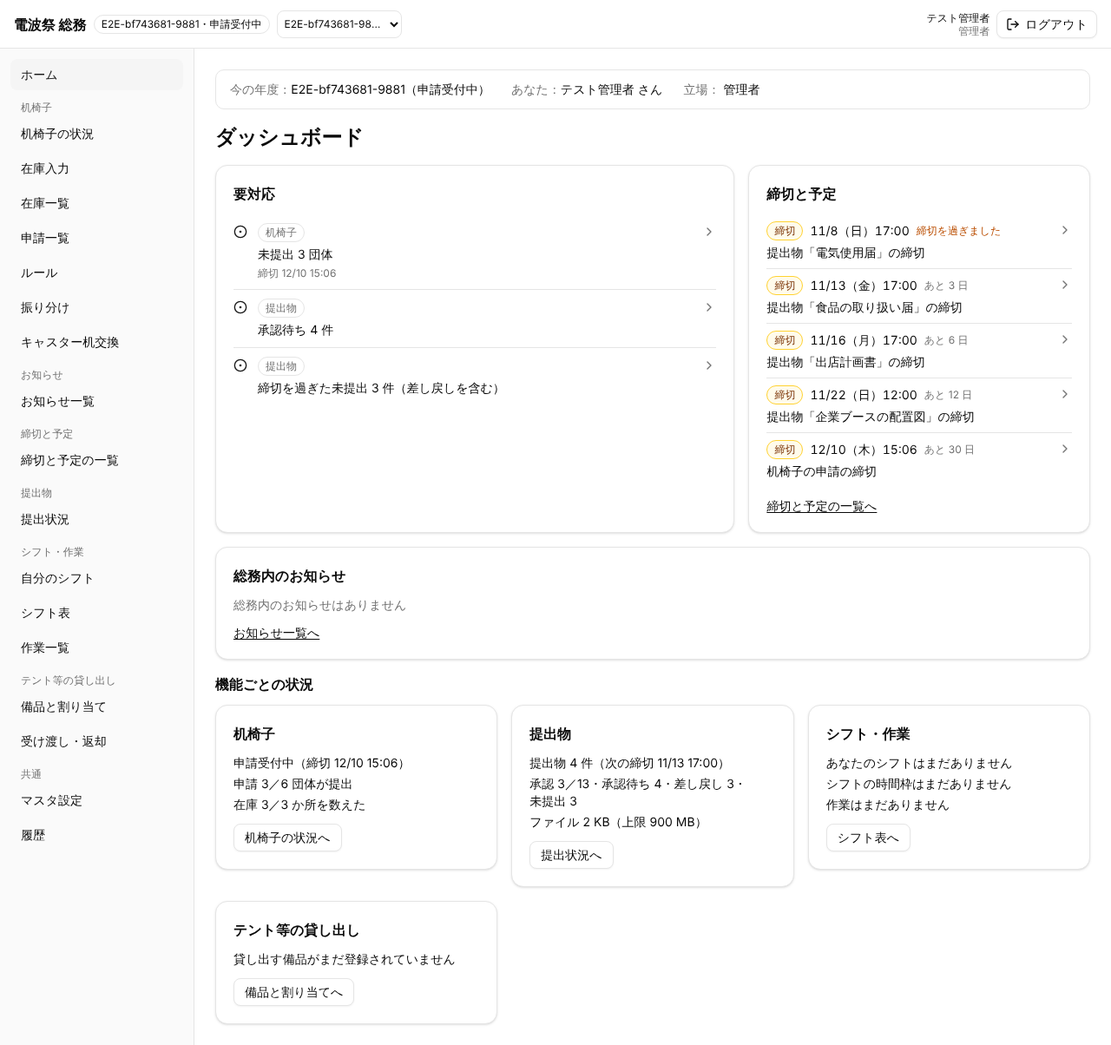
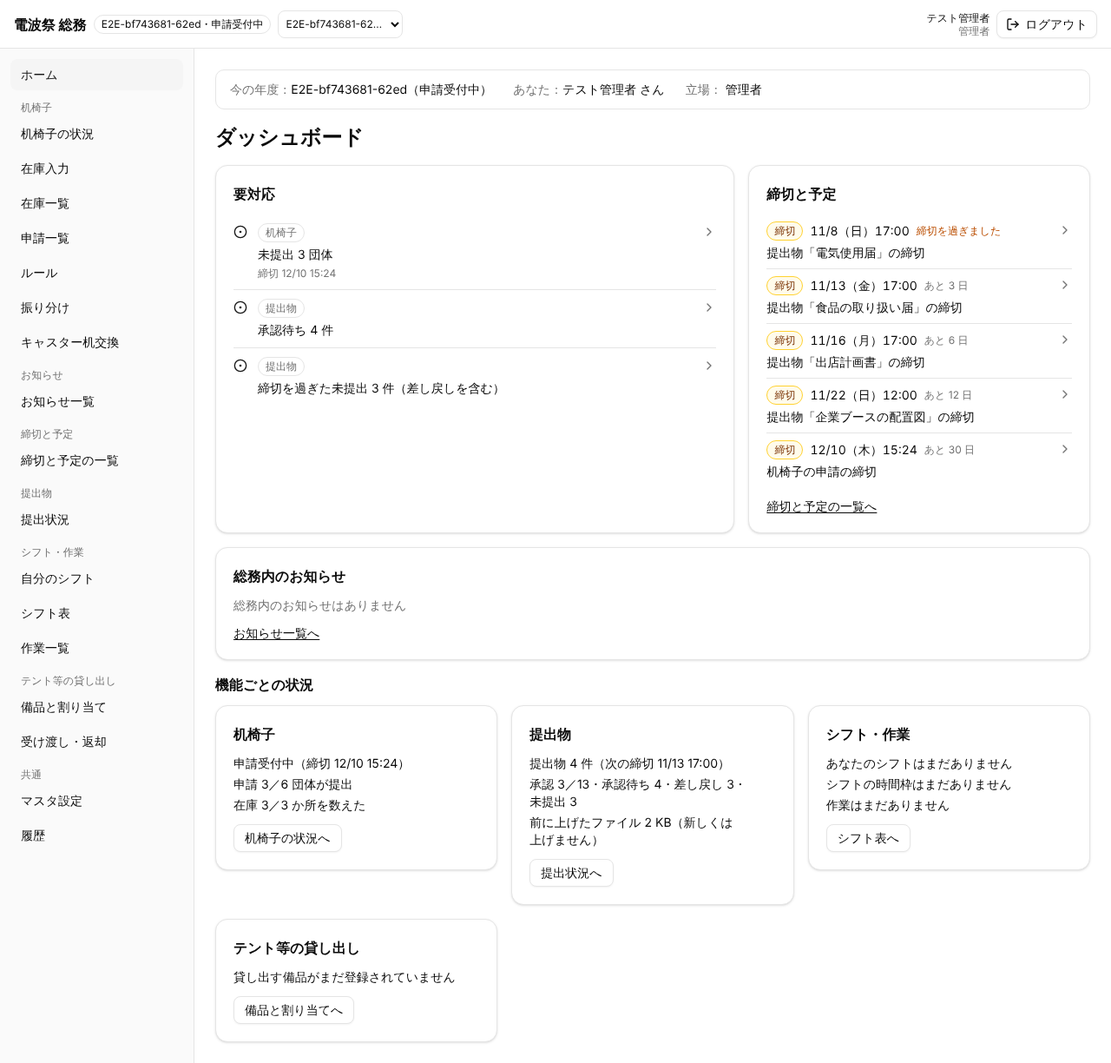
fix: T24 のレビューの指摘を直す（ダッシュボードの上限・conflict の文言・設定の添え書き・文書とテスト）
- ダッシュボードの提出物のカードに上限 900 MB を出さず「前に上げたファイル」とする
- conflict の文言を「提出・取り消し・ファイルを外すなど」にする
- シートの「提出物の設定」の添え書きを書ける年度だけにする
- 04・02 を実装にそろえ、033 で 0023 の既存の行の update を確かめる

Claude-Session: https://claude.ai/code/session_01WNbyY2riVdfm15kp8tp6es

diff --git a/apps/web/lib/errors.ts b/apps/web/lib/errors.ts
@@ -472,6 +472,7 @@ export const DOCUMENT_STATE_MESSAGES: Readonly<Record<string, string>> = {
   not_uploaded: '届いていないファイルがあります。外してから提出してください',
   too_many_files: 'ファイルは1つの提出物に 5 つまでです',
   too_many_orphans: '前に外したファイルを片付けられませんでした。通信を確かめてから、もう一度足してください',
+  // T24 から返らない（予約は先に uploads_disabled で止まる）。T24 の前の形の記録として残す
   storage_full: 'ファイルの置き場がいっぱいです（上限 900 MB）。総務に知らせてください（管理者が終了した年度のファイルを削除すると空きます）',
   not_closed: '年度が終了していないので、ファイルを削除できません',
   // T24（D-62）：reserve_document_file はいつもこれを返す（提出物はドライブ・フォームに出す）
@@ -493,8 +494,8 @@ export const DOCUMENT_INPUT_MESSAGES: Readonly<Record<string, string>> = {
   'document_ids:not_in_prev_year': '前年度にない提出物が選ばれています。読み直しました',
   'document_ids:deadline_out_of_range': 'ずらした締切が 2000年〜2200年の外になる提出物があります',
 };
-/** 提出・取り消し・承認・差し戻しの conflict（details は {document_id, group_id}。読んだ後にファイルを足す・外すなどで版が進んだ） */
-export const DOCUMENT_CONFLICT_MESSAGE = 'ほかの人がこの提出を先に変えました（ファイルを足す・外すなど）。読み直しました。確かめてから、もう一度押してください';
+/** 提出・取り消し・承認・差し戻しの conflict（details は {document_id, group_id}。読んだ後に提出して取り消す・ファイルを外すなどで版が進んだ） */
+export const DOCUMENT_CONFLICT_MESSAGE = 'ほかの人がこの提出を先に変えました（提出・取り消し・ファイルを外すなど）。読み直しました。確かめてから、もう一度押してください';
 /** not_found（discard_document_file 以外） */
 export const DOCUMENT_MISSING_MESSAGE = 'この提出物は見つかりません（削除されたか、この団体が対象から外れた可能性があります）。読み直しました';
 /** not_found（discard_document_file：待つ間に外された） */

diff --git a/apps/web/lib/modules/documents/portal.test.ts b/apps/web/lib/modules/documents/portal.test.ts
@@ -63,12 +63,12 @@ describe('T19 総務の要対応・締切と予定・カード', () => {
     for (const t of s.todos) expect(t).not.toHaveProperty('detail');
   });
 
-  it('管理者のカード：提出物の数と次の締切、承認／対象・承認待ち・差し戻し・未提出、ファイルの使った量（上限 900 MB）。リンクは「提出状況へ」', () => {
+  it('管理者のカード：提出物の数と次の締切、承認／対象・承認待ち・差し戻し・未提出、前に上げたファイルの使った量（T24 から上限は出さない）。リンクは「提出状況へ」', () => {
     const s = documentsPortal(soumuRaw(), ctxOf(member('admin'), 'soumu'));
     expect(s.card).toEqual({
       moduleId: 'documents',
       title: '提出物',
-      lines: ['提出物 4 件（次の締切 10/6 17:00）', '承認 3／8・承認待ち 2・差し戻し 1・未提出 2', 'ファイル 180 MB（上限 900 MB）'],
+      lines: ['提出物 4 件（次の締切 10/6 17:00）', '承認 3／8・承認待ち 2・差し戻し 1・未提出 2', '前に上げたファイル 180 MB（新しくは上げません）'],
       href: '/documents',
       linkLabel: '提出状況へ',
     });
@@ -104,7 +104,7 @@ describe('T19 総務の要対応・締切と予定・カード', () => {
     expect(documentsPortal(soumuRaw({ docs: [], statuses: [], usage: null }), ctxOf(member('head'), 'soumu')).card!.lines).toEqual(['提出物はまだありません']);
     expect(documentsPortal(soumuRaw({ docs: [], statuses: [] }), ctxOf(member('admin'), 'soumu')).card!.lines).toEqual([
       '提出物はまだありません',
-      'ファイル 180 MB（上限 900 MB）',
+      '前に上げたファイル 180 MB（新しくは上げません）',
     ]);
     const past = soumuRaw({ docs: [DOCS[0]!, DOCS[3]!], statuses: [], usage: null });
     expect(documentsPortal(past, ctxOf(member('staff'), 'soumu')).card!.lines).toEqual(['提出物 2 件（締切はすべて過ぎました）', '対象の団体がありません']);

diff --git a/apps/web/lib/data/documents.test.ts b/apps/web/lib/data/documents.test.ts
@@ -586,7 +586,7 @@ describe('T19 提出・取り消し・承認・差し戻し（RPC の引数）',
     expect(messageFor(await caught(approveDocument(D, G, null, V, state('approved').client)), { rpc: 'approve_document' })).toBe('すでに承認されています。読み直しました');
     const conflict = fake(() => ({ error: { code: 'P0001', message: 'conflict', details: JSON.stringify({ document_id: D, group_id: G }) }, status: 400 }));
     expect(messageFor(await caught(submitDocument(D, G, V, conflict.client)), { rpc: 'submit_document' })).toBe(
-      'ほかの人がこの提出を先に変えました（ファイルを足す・外すなど）。読み直しました。確かめてから、もう一度押してください',
+      'ほかの人がこの提出を先に変えました（提出・取り消し・ファイルを外すなど）。読み直しました。確かめてから、もう一度押してください',
     );
     const notFound = fake(() => ({ error: { code: 'P0001', message: 'not_found' }, status: 400 }));
     expect(messageFor(await caught(withdrawDocument(D, G, V, notFound.client)), { rpc: 'withdraw_document' })).toBe(

diff --git a/apps/web/components/documents/documents-screen.test.tsx b/apps/web/components/documents/documents-screen.test.tsx
@@ -1391,6 +1391,12 @@ describe('T19 提出状況：前年度から写すの応答が届かなかった
 // ---------------------------------------------------------------- 終了した年度
 
 describe('T19 提出状況：終了した年度', () => {
+  it('T24 提出先の URL がないとき、終了した年度では「（「提出物の設定」で入れられます）」を添えない（設定は読むだけ）', async () => {
+    renderScreen({ role: 'head', status: 'closed', search: `document=${D_NOTE}&group=${G4.id}` });
+    await waitFor(() => expect(sheet()).toBeTruthy());
+    expect(within(sheet()).getByTestId('documents-sheet-no-submit-url').textContent).toBe('提出先の URL はまだありません');
+  });
+
   it('帯を出し、書くためのもの（設定の登録・編集・削除・写す、シートの操作・ファイルの追加と外す）を出さない。開く・保存・CSV はできる', async () => {
     renderScreen({ role: 'head', status: 'closed', search: `document=${D_PLAN}&group=${G2.id}` });
     await waitFor(() => expect(sheet()).toBeTruthy());

diff --git a/apps/web/components/documents/submission-write.test.ts b/apps/web/components/documents/submission-write.test.ts
@@ -52,7 +52,7 @@ describe('T19 runSubmissionWrite', () => {
     const changed = await runSubmissionWrite(req({ send, reread: async () => ({ status: 'returned', updated_at: V2, review_note: null }) }), other);
     expect(changed.type).toBe('rejected');
     expect(messageFor(classifyError((changed as { error: unknown }).error), { rpc: SUBMISSION_RPCS.submit })).toBe(
-      'ほかの人がこの提出を先に変えました（ファイルを足す・外すなど）。読み直しました。確かめてから、もう一度押してください',
+      'ほかの人がこの提出を先に変えました（提出・取り消し・ファイルを外すなど）。読み直しました。確かめてから、もう一度押してください',
     );
     expect(await runSubmissionWrite(req({ send, reread: async () => Promise.reject(NETWORK) }), other)).toEqual({ type: 'unknown' });
   });

diff --git a/apps/web/lib/modules/documents/portal.ts b/apps/web/lib/modules/documents/portal.ts
@@ -194,7 +194,8 @@ function soumuCard(raw: DocumentsSoumuPortalRaw, counts: SoumuCounts, ctx: Porta
     );
   }
   if (isAdmin(ctx.role) && raw.usage) {
-    lines.push(`ファイル ${formatFileSize(raw.usage.bucket_bytes)}（上限 ${formatFileSize(raw.usage.limit_bytes)}）`);
+    // T24（D-62）から提出物は新しく上げない。limit_bytes（900 MiB）は T19 の形の記録なので出さない（まだ使えるように見えるため）
+    lines.push(`前に上げたファイル ${formatFileSize(raw.usage.bucket_bytes)}（新しくは上げません）`);
   }
   const href = canOpen('/documents', ctx.audiences, ctx.year.status) ? '/documents' : null;
   return { moduleId: MODULE_ID, title: moduleLabel(MODULE_ID), lines, href, linkLabel: '提出状況へ' };

diff --git a/apps/web/lib/modules/documents/files.ts b/apps/web/lib/modules/documents/files.ts
@@ -14,7 +14,7 @@ export const DOCUMENTS_BUCKET = 'documents';
 export const MAX_FILES = 5;
 /** 1つのファイルの大きさの上限（10 MiB。document_files_size_check と bucket の file_size_limit） */
 export const MAX_FILE_BYTES = 10 * 1024 * 1024;
-/** bucket 全体の上限（900 MiB。reserve_document_file の storage_full と document_storage_usage の limit_bytes） */
+/** bucket 全体の上限（900 MiB。T19 の reserve_document_file の storage_full と document_storage_usage の limit_bytes。T24 から画面には出さない） */
 export const STORAGE_LIMIT_BYTES = 900 * 1024 * 1024;
 /** 署名つき URL の有効な秒数（押したときに作り、残さない） */
 export const SIGNED_URL_SECONDS = 60;

diff --git a/apps/web/components/documents/documents-sheet.tsx b/apps/web/components/documents/documents-sheet.tsx
@@ -505,7 +505,7 @@ function SheetBody({
             ) : (
               <p data-testid="documents-sheet-no-submit-url" className="text-muted-foreground">
                 {NO_SUBMIT_URL_SHEET_TEXT}
-                {showFiles ? NO_SUBMIT_URL_LEAD_HINT : ''}
+                {writable && userId ? NO_SUBMIT_URL_LEAD_HINT : ''}
               </p>
             )}
           </div>

diff --git a/docs/requirements/04_screens_api.md b/docs/requirements/04_screens_api.md
@@ -405,7 +405,7 @@
   - 予約の size には、上げる物（JPEG は作り直した後）の大きさをそのまま送る。届いた物が申告より大きいと、Storage が 403 で止める（トリガー。申告で数える容量を実際より小さく見せない）
   - どの提出にも属さない物が団体のフォルダに 5 つ以上あると、予約が invalid_state（reason too_many_orphans）になる。画面は外した直後に remove し、too_many_orphans が返ったら document_orphan_paths の path を remove してから予約し直す
 - 提出・取り消し・承認・差し戻しは、読んだときの提出の updated_at（v_document_status の updated_at。行がなければ null）を base_updated_at に渡す。ファイルを足す・外すと提出の updated_at が進むので、続けて提出するときは読み直した版で送る
-- 提出・取り消し・承認で同じ操作が重なったとき（店長と副店長が同時に「提出した」を押した、部門長2人が同時に承認した）と、成功した後の送り直しは、conflict でなく invalid_state（reason not_editable と今の status）になる（RPC は状態を版より先に見る。後の操作はロックを待った後の状態で決まる）。画面は読み直して今の状態を出す（「すでに提出されています。読み直しました」など。下の「エラーの文言」）。conflict になるのは、読んだ後にほかの人がファイルを足す・外すなどで版が進み、状態は変わっていないとき（差し戻しは差し戻しからもできるので、差し戻しが重なったときも conflict）
+- 提出・取り消し・承認で同じ操作が重なったとき（店長と副店長が同時に「提出した」を押した、部門長2人が同時に承認した）と、成功した後の送り直しは、conflict でなく invalid_state（reason not_editable と今の status）になる（RPC は状態を版より先に見る。後の操作はロックを待った後の状態で決まる）。画面は読み直して今の状態を出す（「すでに提出されています。読み直しました」など。下の「エラーの文言」）。conflict になるのは、読んだ後にほかの人が提出して取り消す・ファイルを外すなどで版が進み、状態は変わっていないとき（差し戻しは差し戻しからもできるので、差し戻しが重なったときも conflict）
 - 通信が切れたとき（「DB関数とブラウザ側の処理」の (B1)）：提出物の登録・変更・削除（直接）、予約と上げる（file_id と path が鍵）、提出・取り消し・承認・差し戻し（base_updated_at）はどれも (B1)。前年度から写す・年度のファイルの削除・片付けは、何度しても同じ結果になる。(B2) になる書き込みはない
 - エラー：RPC の invalid_state の reason（not_editable・no_file・not_uploaded・too_many_files・too_many_orphans・storage_full・not_closed・uploads_disabled〔T24〕）と invalid_input の field・reason（in_use・required・too_long・not_in_prev_year など）は、下の DB関数の表。画面の文言は下の「エラーの文言」（apps/web/lib/errors.ts）
 
@@ -458,7 +458,7 @@
 | invalid_state の not_uploaded | 届いていないファイルがあります。外してから提出してください（T24 で「もう一度送って」をやめた） |
 | invalid_state の too_many_files | ファイルは1つの提出物に 5 つまでです |
 | invalid_state の too_many_orphans（片付けて予約し直しても返ったとき） | 前に外したファイルを片付けられませんでした。通信を確かめてから、もう一度足してください |
-| invalid_state の storage_full | ファイルの置き場がいっぱいです（上限 900 MB）。総務に知らせてください（管理者が終了した年度のファイルを削除すると空きます） |
+| invalid_state の storage_full（T24 から返らない。予約は先に uploads_disabled で止まる。T19 の形の記録） | ファイルの置き場がいっぱいです（上限 900 MB）。総務に知らせてください（管理者が終了した年度のファイルを削除すると空きます） |
 | invalid_state の not_closed | 年度が終了していないので、ファイルを削除できません |
 | invalid_input（field: note、reason: required）。差し戻し | 差し戻しの理由を入れてください |
 | invalid_input（field: note、reason: required）。未提出・差し戻しからの承認 | 紙などで受け取ったときは、メモを入れてください |
@@ -471,7 +471,7 @@
 | invalid_input（field: reason。年度のファイルの削除） | 理由は 500 字までです（今の文言） |
 | not_found（discard_document_file 以外） | この提出物は見つかりません（削除されたか、この団体が対象から外れた可能性があります）。読み直しました |
 | not_found（discard_document_file） | このファイルはもうありません（ほかの人が外した可能性があります）。読み直しました |
-| conflict（detail は document_id・group_id） | ほかの人がこの提出を先に変えました（ファイルを足す・外すなど）。読み直しました。確かめてから、もう一度押してください |
+| conflict（detail は document_id・group_id） | ほかの人がこの提出を先に変えました（提出・取り消し・ファイルを外すなど）。読み直しました。確かめてから、もう一度押してください |
 | Storage の upload の 403（ポリシー・トリガー） | アップロードできませんでした。提出の状態か立場が変わった可能性があります。読み直しました |
 | Storage の署名つき URL の 403（開く・保存。立場が変わった・ログインが切れた。2026-11-03。レビューの UX-4） | ファイルを開けませんでした。立場が変わった可能性があります（読み直すのは年度の行と立場だけなので「読み直しました」は付けない） |
 | Storage の upload の 413・415 | ファイルは1つ 10 MB までです／PDF・JPEG・PNG のファイルを選んでください |
@@ -491,11 +491,11 @@
 | 画面 | testid |
 | --- | --- |
 | /document | `document-screen`・`document-group-select`・`document-group-name`・`document-closed`・`document-empty`・`document-card`（data-document-id・data-status・data-late・data-highlighted）・`document-card-title`・`document-card-deadline`（data-overdue）・`document-card-status`・`document-card-late`・`document-card-proxy`・`document-card-paper`・`document-card-no-file`（T24 でやめた）・`document-card-submit-url`（T24。リンク）・`document-card-no-submit-url`（T24）・`document-card-description`・`document-returned`・`document-returned-reason`・`document-previous-reason`・`document-submitted-at`・`document-approved`・`document-approved-note`・`document-error`・`document-reread` |
-| /document のファイル | `document-files`・`document-file`（data-file-id・data-state="uploaded\|uploading\|failed\|missing"）・`document-file-label`・`document-file-open`・`document-file-save`・`document-file-remove`・`document-file-retry`・`document-file-add`・`document-file-input`・`document-file-hint`・`document-file-error`・`document-uploading`・`document-remove-confirm` |
+| /document のファイル | `document-files`・`document-file`（data-file-id・data-state="uploaded\|uploading\|failed\|missing"）・`document-file-label`・`document-file-open`・`document-file-save`・`document-file-remove`・`document-file-retry`（T24 でやめた）・`document-file-add`（T24 でやめた）・`document-file-input`（T24 でやめた）・`document-file-hint`（T24 でやめた）・`document-file-error`・`document-uploading`（T24 でやめた）・`document-remove-confirm` |
 | /document の提出 | `document-submit`・`document-submit-hint`・`document-submit-confirm`・`document-withdraw`・`document-withdraw-confirm` |
 | /documents | `documents-screen`・`documents-tab-status`・`documents-tab-settings`・`documents-closed`・`documents-filter`・`documents-filter-item`（data-status="all\|not_submitted\|submitted\|returned\|approved\|overdue"・data-count）・`documents-table`・`documents-col`（data-document-id）・`documents-row`（data-group-id）・`documents-cell`（data-document-id・data-group-id・data-status="not_submitted\|submitted\|returned\|approved\|none"〔none は対象でない「—」〕・data-late・data-proxy・data-paper・data-overdue・data-dimmed・data-highlighted）・`documents-cell-files`・`documents-list`・`documents-list-document`（data-document-id）・`documents-list-item`（data-document-id・data-group-id・data-status）・`documents-empty`・`documents-no-targets`・`documents-filter-empty`・`documents-csv` |
 | /documents の終了した年度 | `documents-delete-files`・`documents-delete-files-confirm`・`documents-delete-files-reason`・`documents-files-deleted`・`documents-cleanup`・`documents-cleanup-error`・`documents-usage-error`（使った量を読み込めない。2026-11-03） |
-| セルのシート | `documents-sheet`・`documents-sheet-title`・`documents-sheet-status`・`documents-sheet-history`・`documents-sheet-note`・`documents-sheet-submit-url`・`documents-sheet-no-submit-url`（T24）・`documents-sheet-files`・`documents-sheet-file`（data-file-id・data-state）・`documents-sheet-file-open`・`documents-sheet-file-save`・`documents-sheet-file-remove`・`documents-sheet-file-retry`・`documents-sheet-file-add`・`documents-sheet-file-input`・`documents-sheet-file-error`・`documents-sheet-uploading`・`documents-sheet-staff-note`・`documents-sheet-approve`・`documents-sheet-return`・`documents-sheet-paper`・`documents-sheet-submit`・`documents-sheet-withdraw`・`documents-sheet-error`・`documents-sheet-reread` |
+| セルのシート | `documents-sheet`・`documents-sheet-title`・`documents-sheet-status`・`documents-sheet-history`・`documents-sheet-note`・`documents-sheet-submit-url`・`documents-sheet-no-submit-url`（T24）・`documents-sheet-files`・`documents-sheet-file`（data-file-id・data-state）・`documents-sheet-file-open`・`documents-sheet-file-save`・`documents-sheet-file-remove`・`documents-sheet-file-retry`（T24 でやめた）・`documents-sheet-file-add`（T24 でやめた）・`documents-sheet-file-input`（T24 でやめた）・`documents-sheet-file-error`・`documents-sheet-uploading`（T24 でやめた）・`documents-sheet-staff-note`・`documents-sheet-approve`・`documents-sheet-return`・`documents-sheet-paper`・`documents-sheet-submit`・`documents-sheet-withdraw`・`documents-sheet-error`・`documents-sheet-reread` |
 | シートのダイアログ | `documents-approve-dialog`・`documents-approve-note`・`documents-approve-note-count`・`documents-approve-submit`・`documents-return-dialog`・`documents-return-reason`・`documents-return-reason-count`・`documents-return-submit`・`documents-paper-dialog`・`documents-paper-note`・`documents-paper-note-count`・`documents-paper-submit`・`documents-review-error`・`documents-proxy-confirm`・`documents-withdraw-confirm`・`documents-remove-confirm` |
 | 提出物の設定 | `documents-settings`・`documents-settings-row`（data-document-id）・`documents-settings-submit-url`（T24）・`documents-settings-add`・`documents-settings-copy`・`documents-settings-edit`・`documents-settings-delete`・`documents-settings-empty`・`documents-delete-confirm`・`documents-delete-error` |
 | 提出物のダイアログ | `doc-dialog`・`doc-form`・`doc-title`・`doc-title-count`・`doc-description`・`doc-description-count`・`doc-deadline-date`・`doc-deadline-time`・`doc-category`（data-category）・`doc-food-only`・`doc-requires-file`（T24 でやめた）・`doc-submit-url`・`doc-submit-url-count`（T24）・`doc-target-count`・`doc-narrowing`・`doc-submit`・`doc-conflict`・`doc-missing`・`doc-error` |
@@ -513,7 +513,7 @@
   - 題名と状態の印（未提出・提出済み（総務の確認待ち）・差し戻し・承認と、締切の後）
   - 締切：「締切 10/5（月）17:00」と相対の言い方（今日・明日・あと N 日・締切を過ぎました。「締切と予定」の日付の出し方）。未提出・差し戻しで過ぎていれば注意の色と文字
   - 説明（書いたとおりの文字で出す。改行を残し、長い語も折り返す。リンクにしない・HTML として読まない。空なら出さない）。T24 で「ファイルは要りません…」の文はやめた（どの提出物もファイルなしで出す）
-  - 提出先（T24。D-62）：提出先の URL があれば「提出先を開く」のリンク（`<a href={submit_url} target="_blank" rel="noopener noreferrer">`。新しいタブ。読み上げの名前は「提出先を開く（新しいタブ）」）と、「ドライブやフォームで出してから、「提出した」を押してください（出せる人・見られる人は、提出先の共有の設定で決まります）」。URL がなければ「提出先は総務から知らされます（決まると、ここに「提出先を開く」が出ます）」。href には `https://` で始まる URL だけを入れる（DB の CHECK と同じ形。ほかの形ならリンクを出さない）
+  - 提出先（T24。D-62）：「提出した」を押せる間（未提出・差し戻しで、書ける年度）だけ出す（提出済み・承認・終了した年度・年度の状態が分からないときは、リンクも下の2つの文も出さない）。提出先の URL があれば「提出先を開く」のリンク（`<a href={submit_url} target="_blank" rel="noopener noreferrer">`。新しいタブ。読み上げの名前は「提出先を開く（新しいタブ）」）と、「ドライブやフォームで出してから、「提出した」を押してください（出せる人・見られる人は、提出先の共有の設定で決まります）」。URL がなければ「提出先は総務から知らされます（決まると、ここに「提出先を開く」が出ます）」。href には `https://` で始まる URL だけを入れる（DB の CHECK と同じ形。ほかの形ならリンクを出さない）
   - 差し戻し：目立つ枠（注意の色と文字。色だけにしない）に「差し戻されました（{日時}）」「理由：{理由}」（書いたとおり。改行を残す）と「直してから、もう一度「提出した」を押してください」
   - 提出済み：「提出しました（{日時}）」。前に差し戻されていれば「前回の差し戻しの理由：{理由}」を小さく
   - 承認：「承認されました（{日時}）」と、メモがあれば「メモ：{メモ}」。紙などで受け取った承認には「紙などで受け取りました」
@@ -526,7 +526,7 @@
 - フォーカス（2026-11-03。レビューの F4）：「提出した」「提出を取り消す」が成功すると押したボタンが消えるので、確かめのダイアログが閉じた後に、フォーカスをそのカードの題名に移す（止められた・分からなかったときは、今までどおり押したボタンに戻る）
 - 最新でない年度：上に「最新の年度に切り替える」（今の部品）を出し、書き込み（ファイルを外す・「提出した」・取り消す）の前に確かめる（D-31。確かめの動詞は、ファイルを外すは「変更」、「提出した」は「提出」、取り消すは「取り消し」）
 - 終了した年度：書くためのもの（ファイルを外す・「提出した」・取り消す）を出さず、「終了した年度のため、提出物は読むだけです（ファイルは、総務が年度の終わりに削除します）」の帯を出す。開く・保存はできる
-- 同じ操作が重なったとき（店長と副店長が同時に「提出した」を押した、成功した後の送り直し。invalid_state の not_editable）は、読み直して今の状態を出し、エラーの文言（「すでに提出されています。読み直しました」など）を出す。conflict（読んだ後に、ほかの人がファイルを足す・外すなどで版が進んだ）は、読み直してエラーの文言を出す（もう一度押すと、読み直した版で送る）。forbidden・invalid_state の closed は、年度の行と立場を読み直して書けない形にする（「共通レイアウト」）
+- 同じ操作が重なったとき（店長と副店長が同時に「提出した」を押した、成功した後の送り直し。invalid_state の not_editable）は、読み直して今の状態を出し、エラーの文言（「すでに提出されています。読み直しました」など）を出す。conflict（読んだ後に、ほかの人が提出して取り消す・ファイルを外すなどで版が進んだ）は、読み直してエラーの文言を出す（もう一度押すと、読み直した版で送る）。forbidden・invalid_state の closed は、年度の行と立場を読み直して書けない形にする（「共通レイアウト」）
 - 空の表示：その団体が対象の提出物がなければ「この団体が出す提出物はまだありません」。読み込み中・読み込みの失敗（もう一度）はほかの画面と同じ部品
 
 ### 提出状況 /documents（PC）
@@ -546,7 +546,7 @@
 - セルのシート（横から開く。見出し「{団体}・{提出物}」。開いたまま、裏の読み直しで中身を変える）：
   - 状態の印と経過：「提出 {日時}（{した人}）」（代理なら「代理」の印）、「承認 {日時}（{した人}）」または「差し戻し {日時}（{した人}）」。した人は表示名（読めない・記録がないときは「名前を表示できません」）。締切の後・紙・締切を過ぎたの印
   - 理由・メモ（書いたとおり。改行を残す）：差し戻しなら「差し戻しの理由」、提出済みで前に差し戻していれば「前回の差し戻しの理由」、承認でメモがあれば「承認のメモ」
-  - 提出先（T24）：提出先の URL があれば「提出先を開く」（/document と同じリンク。新しいタブ。総務の段によらず出す。中を見られるかはドライブの共有の設定で決まる）。なければ「提出先の URL はまだありません」（部門長以上には「（「提出物の設定」で入れられます）」を添える）
+  - 提出先（T24）：提出先の URL があれば「提出先を開く」（/document と同じリンク。新しいタブ。総務の段によらず出す。中を見られるかはドライブの共有の設定で決まる）。なければ「提出先の URL はまだありません」（部門長以上で、書ける年度〔設定の登録・編集が出る年度〕だけ「（「提出物の設定」で入れられます）」を添える）
   - ファイル（部門長以上だけ。T24 の前に上がったものがあるときだけ一覧を出す）：「ファイルの扱い」の形で1件ずつ、届いたものに「開く」「保存」、承認でなければ「外す」。総務部門員には、ファイルの欄の代わりに「ファイルを開けるのは部門長以上です」とだけ出す
   - 操作（部門長以上。終了した年度を除く。今の状態で押せるものだけを出す）：
     - 「承認する」（提出済み）：ダイアログ（見出し「承認する」、メモ〔任意。1000 字まで。「{n}/1000」〕、「メモは団体にも見えます。個人の名前は書かないでください。」、ボタン「承認する」）→ approve_document（メモが空なら null）→「承認しました」
@@ -592,7 +592,7 @@
 - 機能ごとのカード「提出物」（総務）：
   - 1行目：「提出物 6 件（次の締切 10/5 17:00）」（次の締切は今より後でいちばん早い締切。なければ「（締切はすべて過ぎました）」）。提出物がなければ「提出物はまだありません」だけ
   - 2行目：「承認 40／61・承認待ち 7・差し戻し 2・未提出 12」（団体 × その団体が対象の提出物で数える）。対象の団体がなければ「対象の団体がありません」
-  - 3行目（管理者だけ）：「ファイル 180 MB（上限 900 MB）」（bucket_bytes・limit_bytes。年度をまたぐ置き場の合計）
+  - 3行目（管理者だけ）：「前に上げたファイル 180 MB（新しくは上げません）」（bucket_bytes。年度をまたぐ置き場の合計。T24 から上限は出さない：提出物は新しく上げず〔02 の「Storage の容量」で documents は 0〕、limit_bytes の 900 MiB は T19 の形の記録なので、出すとまだ 900 MB 使えるように見える。D-62）
   - リンクは「提出状況へ」（/documents）
 - 先読み：ダッシュボードの先読み（「共通レイアウト」の読み込みの項）に、総務の分（部門長以上と総務部門員で別のキー）を足す。軽いモジュール（読み取りとキーだけ。並べ方や組み立てを持たない）から読む（D-52）。店長・副店長の分（団体の id つきのキー）は、足した形の団体代表の / が 4G で 2 秒を下回らなかったので（`pnpm e2e:perf`。notes/T19.md の「実行したコマンドと結果（パート B・C）」）、先読みに入れず、記録・先送り（2回目から JS より先に送る）だけにした（D-45 の T19 の直し）
 
@@ -827,7 +827,7 @@
 | copy_previous_documents(year_id, document_ids) | その年度の部門長以上 | 選んだ前年度の提出物を、ずらした締切でこの年度に写す（題名・説明・対象の区分・飲食の団体だけ・提出先の URL〔T24〕。ファイルが要るはいつも false。同じ題名は飛ばす。Q10）。写した行を返す（何度呼んでも同じ結果）。終了した年度ではできない。理由は「提出物の前年度からの写し」。エラーの順：forbidden → invalid_state（終了）→ invalid_input（field document_ids、reason：required・too_many〔1000 を超える〕・invalid〔null・重なり〕・not_in_prev_year・deadline_out_of_range） |
 | delete_year_document_files(year_id, reason) | その年度の管理者（終了の年度だけ） | その年度の提出物のファイルの行を全部消し、提出物の files_deleted_at を入れる（最初の削除の日時のまま）。提出の状態・日時・理由は残す（Q3）。消した行の数を返す（Storage の物は、画面が document_orphan_paths の path を remove する）。reason は省ける（省けば理由は「提出物のファイルの削除」）。エラーの順：forbidden → invalid_state（終了でない：reason not_closed）→ invalid_input（reason が 500 字を超える） |
 | document_orphan_paths(year_id) | その年度の部門長以上、その年度の団体の店長・副店長 | 呼んだ人が Storage から消せる「どの提出にも属さないファイル」の path を返す（その年度のフォルダの分。部門長以上は年度の全部、店長・副店長は自団体の分。読み取りのみ。終了の年度も） |
-| document_storage_usage(year_id) | その年度の部門長以上 | 1行を返す（読み取りのみ）：bucket documents の合計（全年度の届いた物の大きさ）bucket_bytes と上限 limit_bytes（900 MiB）、その年度のファイルの行の数 file_count と大きさ file_bytes（届いたものは実際、届いていないものは申告）、その年度のどの提出にも属さない物の数 orphan_count |
+| document_storage_usage(year_id) | その年度の部門長以上 | 1行を返す（読み取りのみ）：bucket documents の合計（全年度の届いた物の大きさ）bucket_bytes と上限 limit_bytes（900 MiB。T19 の形の記録で、T24 から画面は出さない。D-62）、その年度のファイルの行の数 file_count と大きさ file_bytes（届いたものは実際、届いていないものは申告）、その年度のどの提出にも属さない物の数 orphan_count |
 | set_task_status(task_id, status, base_updated_at) | 総務で、その作業の担当者か部門長以上（T20・D-56） | 作業の状態（未着手・作業中・完了）だけを変える（どの状態からどの状態へも。完了から戻すのもよい。同じ状態でも書いて updated_at を進める）。RLS は列を分けられないので、担当の総務部門員が状態だけを変えるための RPC。終了した年度では変えられない（確定中は変えられる）。エラーの順：作業がない・その作業の年度の総務でない → forbidden（有無を漏らさない）、終了 → invalid_state、status か base_updated_at が null → invalid_input（field: status・base_updated_at）、ロックを待つ間に消えた → not_found、担当者でも部門長以上でもない → forbidden（担当者なしの作業は部門長以上だけ）、base_updated_at（読んだときの updated_at の文字列のまま。ミリ秒までで比べる）が今の行と違う → conflict（detail は id）。理由は「作業の状態」。返り値は作業の行 |
 | add_shift_slots(year_id, slots, needs) | 部門長以上（T20・D-56） | 「1日分をまとめて作る」：時間枠（slots：`[{starts_at, ends_at}]`。オフセットつきの ISO 8601 の日時。1〜96 個）と、作った時間枠のすべてに同じ持ち場のます（needs：`[{duty_id, required_count}]`。0〜100 個。必要人数 0〜100）を1回で作る（2つの表をまとめて変えるので RPC）。needs は省ける（空。時間枠だけ）。終了した年度では作れない（確定中は作れる）。エラーの順：年度がない・部門長以上でない → forbidden、終了 → invalid_state、slots が空・配列でない → invalid_input（field: slots、reason: required）、97 個以上 → too_many、時間枠の形 → invalid・順 → order・24 時間より長い → too_long・日付が 2000-01-01〜2200-12-31 の外 → out_of_range、送った時間枠どうしが重なる → overlap（どれも field: slots と、送った順の番号 ord〔1 から〕）、needs の形 → invalid・101 個以上 → too_many・同じ持ち場が2回 → duplicate・その年度の持ち場でない → not_in_year（どれも field: needs）、今ある時間枠と重なる → invalid_input（field: starts_at、reason: overlap、slot_id。時間枠のトリガー）。冪等の鍵はない。理由は「シフトの時間枠」。返り値は作った時間枠（開始の早い順） |
 | save_lending_assignments(year_id, changes) | 部門長以上（T21・D-57） | テント等の割り当てを1回で保存する（全部か何も）。changes は 1〜1000 件の `[{ groupId, itemId, count, updatedAt }]`（count は 0〜10000 の整数か null。null は行を消して未入力に戻す。updatedAt は行があれば読んだときの updated_at の文字列、なければ null）。どの区分の団体にも入れられ、在庫を超えても保存できる（確定で止める）。年度の行はロックせず、年度ごとの勧告的ロックで順に処理する。理由は「テント等の割り当て」。返り値は changes の順の `[{ groupId, itemId, count, updatedAt }]`（消した・何もしなかった行は count・updatedAt が null）。エラーの順：forbidden（その年度の部門長以上でない・年度がない）→ invalid_state（終了〔status: closed〕→ 割り当ての確定中〔reason: confirmed〕）→ invalid_input（field：changes〔配列でない・0 件・1000 件を超える。reason：shape・duplicate〕・groupId・itemId〔reason: not_in_year〕）→ conflict（行があるのに updatedAt が null・行がないのに updatedAt がある・ミリ秒までで違う。detail は group_id・lending_item_id）。画面は「テント等の貸し出し」 |

diff --git a/notes/T24.md b/notes/T24.md
@@ -2,7 +2,7 @@
 
 ブランチ feat/T24-documents-drive（main 35a7492 から）。計画はユーザーが承認したもの（/root/.claude/plans の「T24 提出物をドライブへ」の節。下の「承認した計画の要点」）。決めは D-62。マイグレーションは 0023_documents_drive.sql、pgTAP の新しいファイルは 033_documents_drive.test.sql。共有の一覧（pgTAP の 001・010・011・013、01 の用語集、05 の表）には行を足すか、提出物の行だけを直す（D-52）。T25（部屋の写真。0024・D-63）は別のチケット・PR にする。
 
-**状態（2026-11-10）**：要件・D-62・DB（0023）・画面・Vitest・E2E・撮影（notes/T24/）まで済み。残り：reviewer と security-reviewer。
+**状態（2026-11-10）**：要件・D-62・DB（0023）・画面・Vitest・E2E・撮影（notes/T24/）・reviewer と security-reviewer（下の「レビューで直したこと」）まで済み。
 
 ## 承認した計画の要点（2026-11-10。D-62）
 
@@ -22,7 +22,7 @@
 4. reserve_document_file は、今の lock_document_year（ロール → 年度の行 → 終了なら invalid_state）の後で、いつも invalid_state（detail: `{"reason": "uploads_disabled"}`）。入力の形・送り直しを見る前に止める（同じ file_id の送り直しも止まる）。引数・戻り値・権限は変えない（型と RPC の一覧を変えない）。
 5. copy_previous_documents は submit_url も写す（requires_file は写すが、トリガーで false になる）。previous_year_documents の返り値（requires_file を含む）は変えない（返り値の型を変えると drop と作り直しが要る。画面は requires_file を使っていない）。
 6. Storage の守り（documents_objects_guard・ポリシー）は変えない。T24 の前の、届いていない予約の path にはまだ上げられるが、増えない（予約は止めた）。画面は「もう一度」を出さないので、届いていないものは外すだけ。
-7. document_storage_usage は変えない（上限 900 MiB の値を返すが、ダッシュボードの使った量の表示はそのまま。T24 の前のファイルの数・大きさと、片付けていない物の数を出すため）。
+7. document_storage_usage は変えない（上限 900 MiB の値を返すが、ダッシュボードの使った量の表示はそのまま。T24 の前のファイルの数・大きさと、片付けていない物の数を出すため）。（レビューで直したこと 1：DB は変えず、画面が limit_bytes を出すのをやめた）
 8. pgTAP の 026・027 は、予約を前提にしていた所を直した（T19 の確かめを T24 の形に合わせる）：026 の ① の予約の行は uploads_disabled（呼べる人は IS）、② の予約の細部（入力の順・path・送り直し・5 つ・too_many_orphans・900 MiB）と ⑨ の予約の例外の直しは消した（止めたことは 033）。後の節が使う T24 の前のファイルの行は、予約の代わりに `tests.add_file` で postgres が直接入れる（0016 の予約と同じ行）。no_file の確かめは消し、① の「ファイルなしの提出」の行は ok にした。027 の ⑤ の流れの予約は、rep の予約の行を postgres が入れる形にした（上げる・届いた・外す・消すは今までどおり）。
 
 ## 実行したコマンドと結果（DB）
@@ -38,7 +38,7 @@
 - /documents：シートに提出先のリンク（なければ「提出先の URL はまだありません」と、部門長以上に「（「提出物の設定」で入れられます）」）。ファイルの欄は T24 の前のファイルがあるときだけ、上げる欄なし。設定の一覧の「ファイル」の列を「提出先」に（リンクか「—」）。登録・編集のダイアログは「ファイルが要る」をやめて「提出先の URL（任意）」（type=url・{n}/500・誤りの文言）。送る値は submit_url（requires_file は送らない）。T24 の前の下書き（requiresFile を持つ）は提出先を空にして戻す。
 - 操作の段：repDocumentActions・leadDocumentActions の addFile はいつも偽。エラーの文言に uploads_disabled を足し、not_uploaded の文から「もう一度送って」を外した。
 - 判断したこと 9：use-document-uploader.ts（上げる流れ）と image.ts（写真の作り直し）は消さずに残した（外す・失敗の状態・開く・保存の知らせに使う。上げる入口は画面から外したので呼ばれない）。消すのは別の片付けにする。
-- 判断したこと 10：ダッシュボードの使った量（document_storage_usage・900 MB の上限の文）と storage_full の文言は変えていない（T24 の前のファイルの数と片付けのため）。
+- 判断したこと 10：ダッシュボードの使った量（document_storage_usage・900 MB の上限の文）と storage_full の文言は変えていない（T24 の前のファイルの数と片付けのため）。（レビューで直したこと 1 で、ダッシュボードの上限の文はやめた）
 
 ## 実行したコマンドと結果（画面）
 
@@ -67,3 +67,19 @@
 - `pnpm e2e:shots --grep "T24|T19"`：1回目は T24 の撮影の「誤りの文が消える」の確かめが落ちた（誤りの文は次に送るまで残る画面の約束。撮る順を、正しい URL → 誤りの文にした）。basePath のスモークは、basePath のビルドが apps/web/out を移すこと・既定の 3101 番と E2E_PORT が重なったことで webServer が立たなかった（README の順：`pnpm build:e2e -- --base-path /GAapp` → `pnpm build:e2e` → `E2E_PORT=3102 pnpm e2e:basepath`）。
 - 3回目：`supabase db reset` → `pnpm build:e2e -- --base-path /GAapp` → `pnpm build:e2e` → `E2E_PORT=3102 pnpm e2e:shots --grep "T24|T19"`：9 件（setup を含む）が通った。続けて `supabase db reset` → `E2E_PORT=3102 pnpm e2e:basepath`：2 件が通った。最後に `supabase stop --no-backup`。
 - ロックの外で：`pnpm lint`（エラー・警告なし）、`pnpm typecheck`（全 workspace）、`pnpm test`（190 ファイル・2807 件が通った。todo 2 は前から）、`pnpm build`（静的書き出しが通った）、`pnpm check:emails`（OK：1316 ファイル）、`pnpm check:no-test-login`（含まれていない）、`node scripts/first-load-js.mjs`（gzip の合計：/document/ 302.1 KB・/documents/ 369.1 KB・/ 343.0 KB。前の段と同じ）。
+
+## レビューで直したこと（reviewer。2026-11-10。security-reviewer は問題なし）
+
+1. （med）管理者のダッシュボードの「ファイル X（上限 900 MB）」：02 の容量の表（documents は 0）と合わず、まだ 900 MB 使えるように見える。直した：04 の /（ダッシュボード）の3行目を「前に上げたファイル 180 MB（新しくは上げません）」（bucket_bytes だけ。上限は出さない）にし、document_storage_usage の行に「limit_bytes の 900 MiB は T19 の形の記録で、T24 から画面は出さない」と書いた。先に portal.test.ts の期待値を直して落ちること（2 件）を見てから portal.ts を直した。DB（0023・document_storage_usage）は変えていない（返り値の limit_bytes は残す。画面が使わないだけ。返り値を変えると型と drop が要る）。storage_full の文言は、04 の文言表と errors.ts に「T24 から返らない（予約は先に uploads_disabled で止まる）。T19 の形の記録」と注記した（文言のキーは残す。DOCUMENT_STATE_MESSAGES の一覧のテストと、T24 の前の形の記録のため）。files.ts の STORAGE_LIMIT_BYTES の説明にも「T24 から画面には出さない」と書いた。
+2. （low）DOCUMENT_CONFLICT_MESSAGE の「（ファイルを足す・外すなど）」：T24 からファイルは足せない。直した：04（408・474・529 行）を「（提出・取り消し・ファイルを外すなど）」・「提出して取り消す・ファイルを外すなどで版が進んだ」にし、Vitest（errors・submission-write・data/documents）と E2E（t19-documents.spec.ts の同時の操作）の期待値を先に直して落ちること（4 件）を見てから errors.ts を直した。
+3. （low）シートの「（「提出物の設定」で入れられます）」の条件が showFiles（部門長以上か）だった：終了した年度でも出ていた。直した：04 の /documents のシートの提出先の行に「書ける年度〔設定の登録・編集が出る年度〕だけ」と書き、documents-screen.test.tsx に「終了した年度では添えない」のテストを足して落ちることを見てから、条件を `writable && userId`（シートの writable は canManageDocuments＝部門長以上で書ける年度。設定のタブの canWrite と同じ判定）にした。
+4. （low）04 の /document の提出先の案内文の条件：実装と E2E は「提出した」を押せる間（未提出・差し戻しで、書ける年度）だけ出す。直した：04 にその条件と、出さないとき（提出済み・承認・終了した年度・年度の状態が分からない）を書いた（実装は前から合っている）。
+5. （low）04 の testid の表：出なくなった document-file-add・document-file-input・document-file-hint・document-uploading・document-file-retry と documents-sheet-file-add・documents-sheet-file-input・documents-sheet-uploading・documents-sheet-file-retry に「（T24 でやめた）」を付けた（file-error は外すときの失敗に使うので残す）。
+6. （low）02 の DDL の requires_file の既定値を `default false` にし、注記に「0016 の既定は true」を残した。
+7. （low）033 の「今の行は false」は insert のトリガーを見ているだけで、0023 の `update … set requires_file = false where requires_file` を通していなかった。直した：その確かめの説明を「insert のトリガーで false」にし、続けてトリガー keep_requires_file_off を止めて DOC_STALL・DOC_NOFILE を true にし（T24 の前の形の行）、0023 と同じ update を流して（returning で書いた行を受け取る）トリガーを戻し、true の行が 0 であることと、書いたのが true だった 2 行だけであること（ほかの行の版を進めない）を確かめた（3 つ足して plan は 47）。updated_at の比べは、テストが1つのトランザクションの中で now() が変わらないので、returning の行で代えた。テストの追加で振る舞いは変えていない。
+
+### 実行したコマンドと結果（レビューの後）
+
+- 先に失敗を見た：Vitest（portal 2 件・conflict の文言 4 件・終了した年度の添え書き 1 件）が落ちることを見てから直した。
+- ロックの中で（`supabase start -x realtime,imgproxy,mailpit,studio,edge-runtime,logflare,vector,supavisor,postgres-meta`）：`supabase db reset` → `supabase test db`（22 ファイル・16741 テスト、Result: PASS。033 は 47）→ `pnpm check:types`（一致）→ `pnpm build:e2e` → `E2E_PORT=3101 pnpm exec playwright test --project=chromium e2e/t19-documents.spec.ts`（13 件が通った）→ `supabase db reset` → `pnpm build:e2e -- --base-path /GAapp` → `pnpm build:e2e` → `E2E_PORT=3102 pnpm e2e:shots --grep "T24|T19"`（9 件が通った）→ `supabase stop --no-backup`。撮り直しで変わったのは notes/T19/portal-documents-card-admin-pc.png（ダッシュボードの「前に上げたファイル 2 KB（新しくは上げません）」。見て、はみ出し・重なりなし）だけを残し、日付などだけが変わったほかの PNG は戻した（シートの添え書きは書ける年度で撮っているので見た目は変わらない）。
+- ロックの外で：`pnpm lint`（エラー・警告なし）、`pnpm typecheck`（全 workspace）、`pnpm test`（190 ファイル・2808 件が通った。todo 2 は前から）、`pnpm build`（通った）、`pnpm check:emails`（OK：1326 ファイル）、`pnpm check:no-test-login`（含まれていない）。
